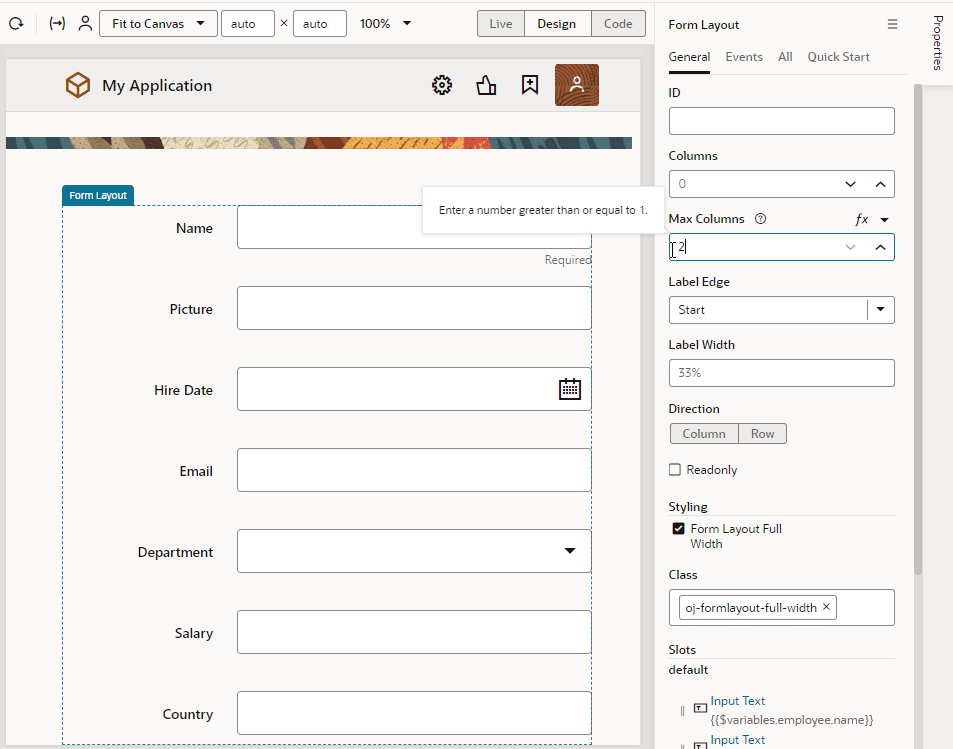
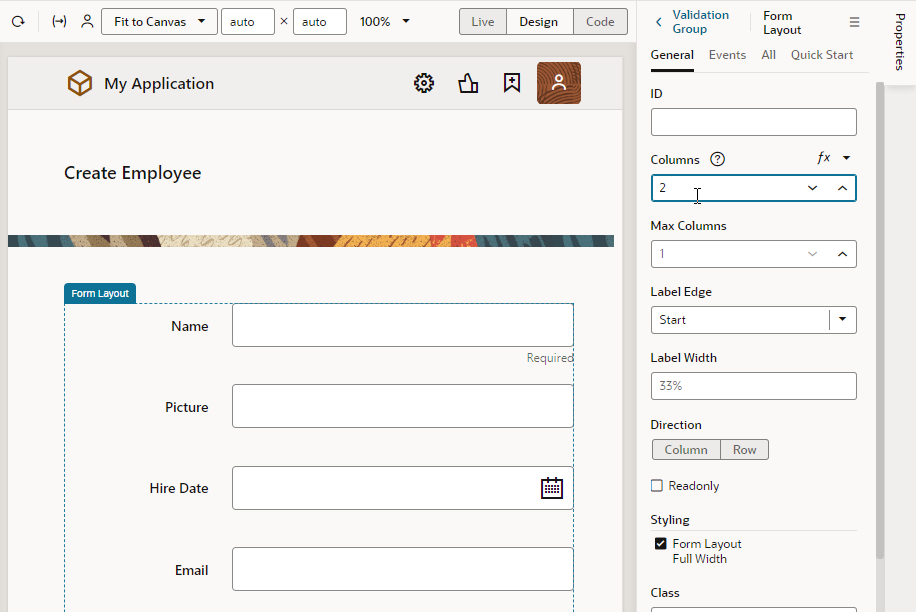
23.10

diff --git a/visual-builder/standalone/create-pub-webapp/create-pages/create-pages.md b/visual-builder/standalone/create-pub-webapp/create-pages/create-pages.md
@@ -215,7 +215,7 @@ Add a Create page that lets your users create new employees.
 
 5. Click the **main-create-employee** page to open it in the Page Designer.
 
-6. Click within the form on the page but outside of a component (that is, in the **Form Layout** component on the page). In the **General** tab of the Form Layout's properties, set the **Max Columns** value to **2**.
+6. Click within the form on the page but outside of a component (that is, in the **Form Layout** component on the page). In the **General** tab of the Form Layout's properties, set the **Columns** value to **2**.
 
     ![This image shows the Form Layout component selected on the main-create-employee page. The Max Columns field in the General tab of the Properties pane is set to 2, so that the employee fields show in two columns on the page.](images/employees_add_create_max_columns.png "")
 
@@ -277,4 +277,4 @@ It makes sense at this point to change the name of the main-start page to main-d
 ## Acknowledgements
 
 * **Author** - Sheryl Manoharan, Visual Builder User Assistance, August 2021
-* **Last Updated By** - February 2023
+* **Last Updated By** - August 2023
